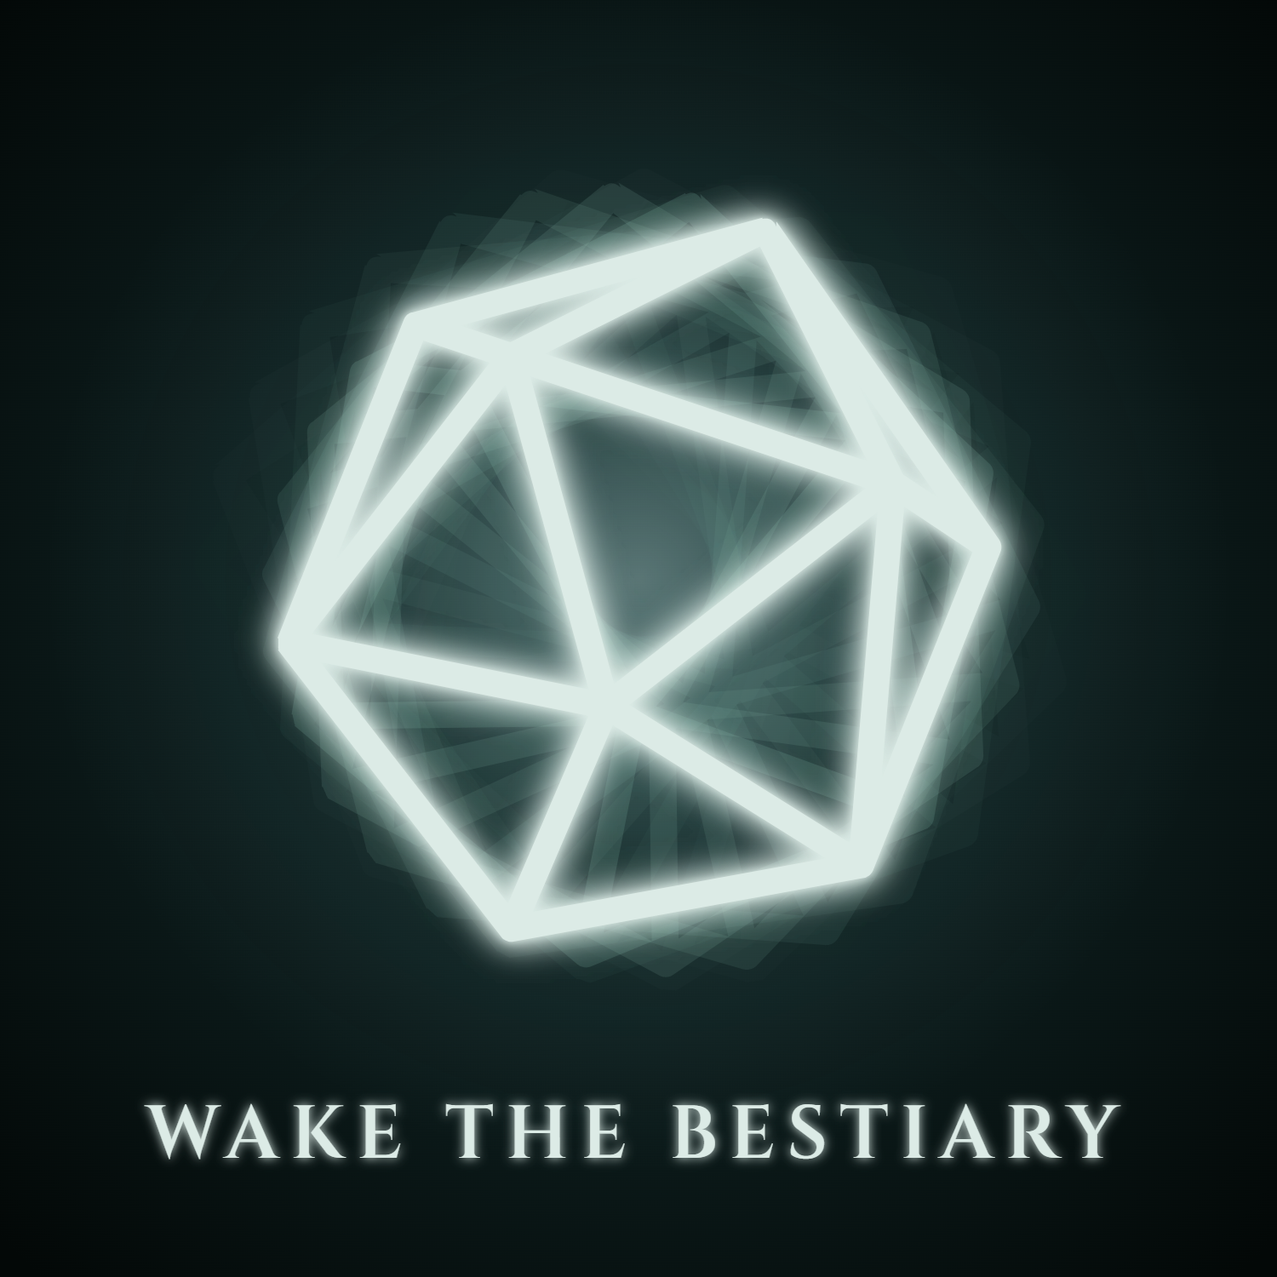
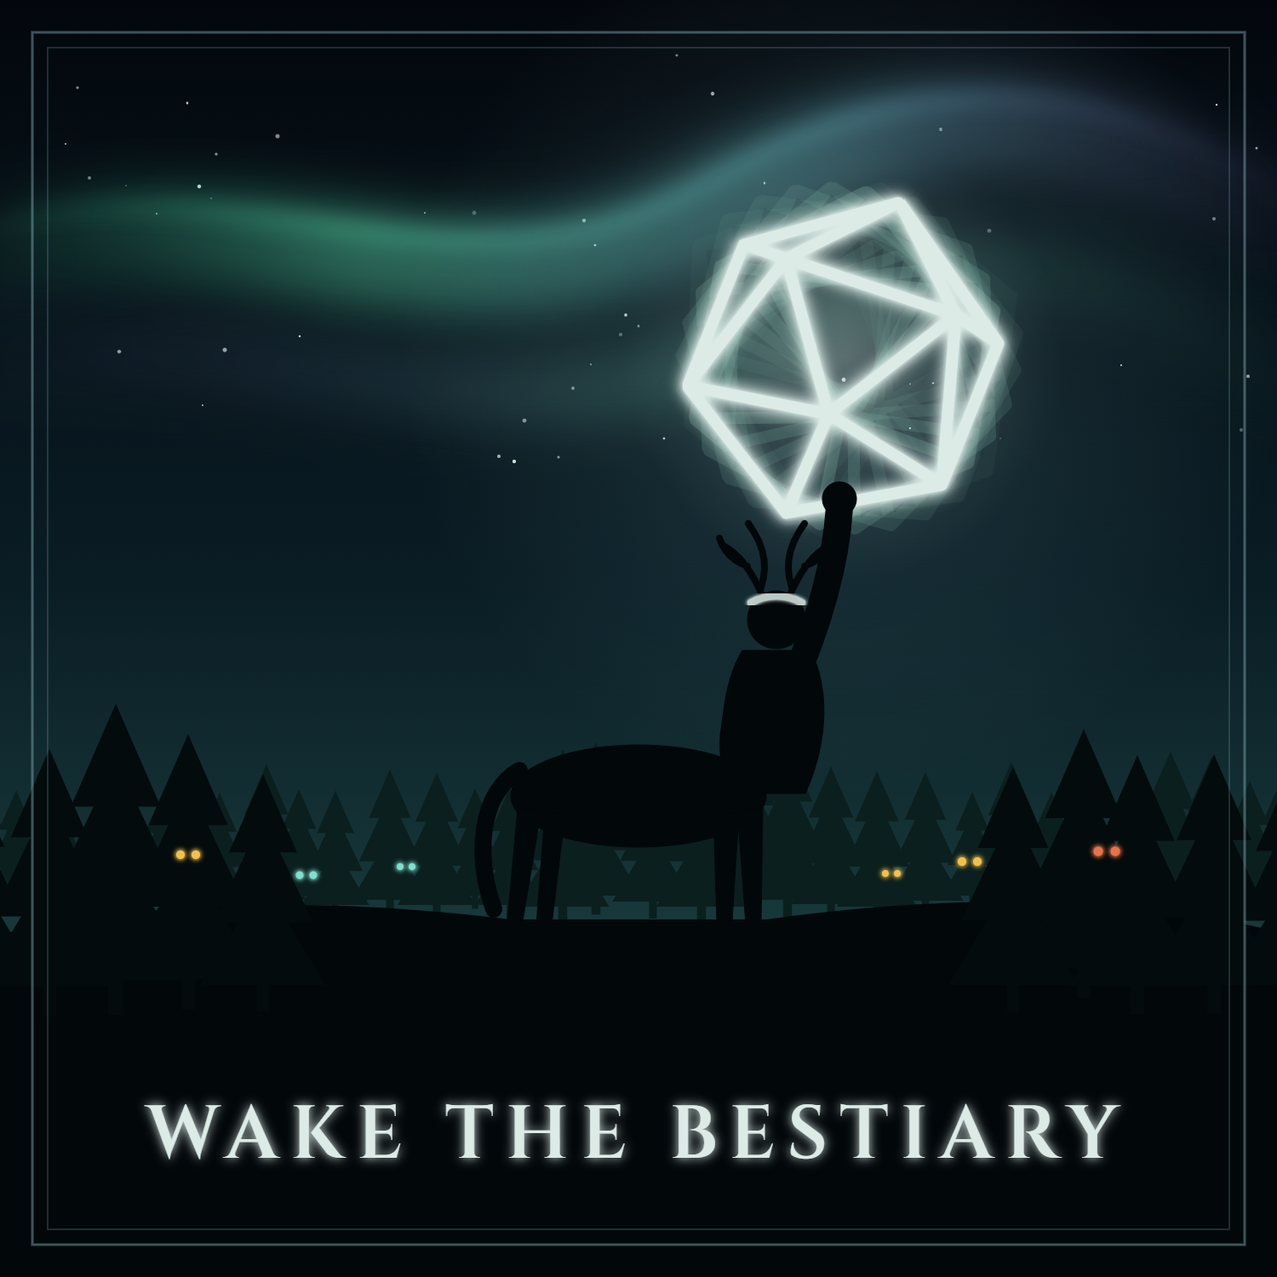
Theme song: a scene for the cover, 'any real roll', Sources checked

diff --git a/docs/theme-song/cover.html b/docs/theme-song/cover.html
@@ -6,26 +6,38 @@
   The d20 shape is the dndgen.com loading spinner (DnDGen.Web: dndgen-web/src/assets/loadingDice.svg),
   originally from https://gist.github.com/hperantunes/f4c2fd407c2ea74c6c9d
   Title font: Cinzel (Cinzel.ttf, SIL Open Font License - see Cinzel-OFL.txt).
-  Based on the main theme's cover in DnDGen/.github theme-song/cover.html, recoloured for the bestiary: a bone-pale d20 in the
-  cold light of a northern forest, the ghost copies behind it the spruce-green shadow of every beast it has woken.
+  Based on the main theme's cover in DnDGen/.github theme-song/cover.html, redrawn as a scene for the bestiary: the
+  Centaur King, antlered and crowned, lifts the d20 like a moon over a pine forest and an aurora, and eyes shine in the trees.
 -->
 <html>
 <head>
 <meta charset="utf-8">
 <style>@font-face{font-family:Cinzel;src:url("Cinzel.ttf") format("truetype");font-weight:400 900}</style>
-<style>html,body{margin:0;background:#040807}svg{display:block}</style>
+<style>html,body{margin:0;background:#03080a}svg{display:block}</style>
 </head>
 <body>
 <svg xmlns="http://www.w3.org/2000/svg" width="1500" height="1500" viewBox="0 0 1500 1500">
 <defs>
-  <radialGradient id="bg" cx="50%" cy="48%" r="70%">
-    <stop offset="0" stop-color="#1f3a38"/>
-    <stop offset="0.45" stop-color="#0e1f1f"/>
-    <stop offset="1" stop-color="#030807"/>
-  </radialGradient>
+  <linearGradient id="sky" x1="0" y1="0" x2="0" y2="1">
+    <stop offset="0" stop-color="#03070d"/>
+    <stop offset="0.45" stop-color="#0a1c24"/>
+    <stop offset="0.72" stop-color="#17383a"/>
+    <stop offset="1" stop-color="#0d2223"/>
+  </linearGradient>
+  <linearGradient id="aur1" x1="0" y1="0" x2="1" y2="0">
+    <stop offset="0" stop-color="#3fd9a0" stop-opacity="0"/>
+    <stop offset="0.3" stop-color="#5fe8b4" stop-opacity="0.75"/>
+    <stop offset="0.65" stop-color="#7fd6e8" stop-opacity="0.6"/>
+    <stop offset="1" stop-color="#8f7bd8" stop-opacity="0"/>
+  </linearGradient>
+  <linearGradient id="aur2" x1="0" y1="0" x2="1" y2="0">
+    <stop offset="0" stop-color="#8f7bd8" stop-opacity="0"/>
+    <stop offset="0.5" stop-color="#6fc9b0" stop-opacity="0.45"/>
+    <stop offset="1" stop-color="#3fd9a0" stop-opacity="0"/>
+  </linearGradient>
   <radialGradient id="halo" cx="50%" cy="50%" r="50%">
-    <stop offset="0" stop-color="#c9e8ea" stop-opacity="0.35"/>
-    <stop offset="0.5" stop-color="#7fb5b8" stop-opacity="0.08"/>
+    <stop offset="0" stop-color="#dff4ee" stop-opacity="0.38"/>
+    <stop offset="0.5" stop-color="#7fb5b8" stop-opacity="0.1"/>
     <stop offset="1" stop-color="#7fb5b8" stop-opacity="0"/>
   </radialGradient>
   <filter id="glow" x="-30%" y="-30%" width="160%" height="160%">
@@ -34,22 +46,150 @@
     <feMerge><feMergeNode in="b1"/><feMergeNode in="b1"/><feMergeNode in="b2"/><feMergeNode in="SourceGraphic"/></feMerge>
   </filter>
   <filter id="tglow" x="-10%" y="-50%" width="120%" height="200%"><feGaussianBlur stdDeviation="6" result="b"/><feMerge><feMergeNode in="b"/><feMergeNode in="SourceGraphic"/></feMerge></filter>
+  <filter id="blur30" x="-20%" y="-60%" width="140%" height="220%"><feGaussianBlur stdDeviation="30"/></filter>
+  <filter id="blur14" x="-20%" y="-60%" width="140%" height="220%"><feGaussianBlur stdDeviation="14"/></filter>
+  <filter id="eye" x="-300%" y="-300%" width="700%" height="700%"><feGaussianBlur stdDeviation="3" result="b"/><feMerge><feMergeNode in="b"/><feMergeNode in="b"/><feMergeNode in="SourceGraphic"/></feMerge></filter>
+  <polygon id="pine" points="0,-210 34,-132 17,-132 50,-62 25,-62 62,0 6,0 6,26 -6,26 -6,0 -62,0 -25,-62 -50,-62 -17,-132 -34,-132"/>
   <path id="d20" d="M80.644,87.982l16.592-41.483c0.054-0.128,0.088-0.26,0.108-0.394c0.006-0.039,0.007-0.077,0.011-0.116  c0.007-0.087,0.008-0.174,0.002-0.26c-0.003-0.046-0.007-0.091-0.014-0.137c-0.014-0.089-0.036-0.176-0.063-0.262  c-0.012-0.034-0.019-0.069-0.031-0.103c-0.047-0.118-0.106-0.229-0.178-0.335c-0.004-0.006-0.006-0.012-0.01-0.018L67.999,3.358  c-0.01-0.013-0.003-0.026-0.013-0.04L68,3.315V4c0,0-0.033,0-0.037,0c-0.403-1-1.094-1.124-1.752-0.976  c0,0.004-0.004-0.012-0.007-0.012C66.201,3.016,66.194,3,66.194,3H66.19h-0.003h-0.003h-0.004h-0.003c0,0-0.004,0-0.007,0  s-0.003-0.151-0.007-0.151L20.495,15.227c-0.025,0.007-0.046-0.019-0.071-0.011c-0.087,0.028-0.172,0.041-0.253,0.083  c-0.054,0.027-0.102,0.053-0.152,0.085c-0.051,0.033-0.101,0.061-0.147,0.099c-0.044,0.036-0.084,0.073-0.124,0.113  c-0.048,0.048-0.093,0.098-0.136,0.152c-0.03,0.039-0.059,0.076-0.085,0.117c-0.046,0.07-0.084,0.145-0.12,0.223  c-0.011,0.023-0.027,0.042-0.036,0.066L2.911,57.664C2.891,57.715,3,57.768,3,57.82v0.002c0,0.186,0,0.375,0,0.562  c0,0.004,0,0.004,0,0.008c0,0,0,0,0,0.002c0,0,0,0,0,0.004v0.004v0.002c0,0.074-0.002,0.15,0.012,0.223  C3.015,58.631,3,58.631,3,58.633c0,0.004,0,0.004,0,0.008c0,0,0,0,0,0.002c0,0,0,0,0,0.004v0.004c0,0,0,0,0,0.002v0.004  c0,0.191-0.046,0.377,0.06,0.545c0-0.002-0.03,0.004-0.03,0.004c0,0.004-0.03,0.004-0.03,0.004c0,0.002,0,0.002,0,0.002  l-0.045,0.004c0.03,0.047,0.036,0.09,0.068,0.133l29.049,37.359c0.002,0.004,0,0.006,0.002,0.01c0.002,0.002,0,0.004,0.002,0.008  c0.006,0.008,0.014,0.014,0.021,0.021c0.024,0.029,0.052,0.051,0.078,0.078c0.027,0.029,0.053,0.057,0.082,0.082  c0.03,0.027,0.055,0.062,0.086,0.088c0.026,0.02,0.057,0.033,0.084,0.053c0.04,0.027,0.081,0.053,0.123,0.076  c0.005,0.004,0.01,0.008,0.016,0.01c0.087,0.051,0.176,0.09,0.269,0.123c0.042,0.014,0.082,0.031,0.125,0.043  c0.021,0.006,0.041,0.018,0.062,0.021c0.123,0.027,0.249,0.043,0.375,0.043c0.099,0,0.202-0.012,0.304-0.027l45.669-8.303  c0.057-0.01,0.108-0.021,0.163-0.037C79.547,88.992,79.562,89,79.575,89c0.004,0,0.004,0,0.004,0c0.021,0,0.039-0.027,0.06-0.035  c0.041-0.014,0.08-0.034,0.12-0.052c0.021-0.01,0.044-0.019,0.064-0.03c0.017-0.01,0.026-0.015,0.033-0.017  c0.014-0.008,0.023-0.021,0.037-0.028c0.14-0.078,0.269-0.174,0.38-0.285c0.014-0.016,0.024-0.034,0.038-0.048  c0.109-0.119,0.201-0.252,0.271-0.398c0.006-0.01,0.016-0.018,0.021-0.029c0.004-0.008,0.008-0.017,0.011-0.026  c0.002-0.004,0.003-0.006,0.005-0.01C80.627,88.021,80.635,88.002,80.644,87.982z M77.611,84.461L48.805,66.453l32.407-25.202  L77.611,84.461z M46.817,63.709L35.863,23.542l43.818,14.608L46.817,63.709z M84.668,40.542l8.926,5.952l-11.902,29.75  L84.668,40.542z M89.128,39.446L84.53,36.38l-6.129-12.257L89.128,39.446z M79.876,34.645L37.807,20.622L65.854,6.599L79.876,34.645  z M33.268,19.107l-6.485-2.162l23.781-6.487L33.268,19.107z M21.92,18.895l8.67,2.891L10.357,47.798L21.92,18.895z M32.652,24.649  l10.845,39.757L7.351,57.178L32.652,24.649z M43.472,67.857L32.969,92.363L8.462,60.855L43.472,67.857z M46.631,69.09l27.826,17.393  l-38.263,6.959L46.631,69.09z"/>
 </defs>
-<rect width="1500" height="1500" fill="url(#bg)"/>
-<circle cx="750" cy="680" r="700" fill="url(#halo)"/>
-<g transform="translate(750 680) scale(0.9)">
-  <use href="#d20" transform="rotate(-108) scale(11.620) translate(-50 -50)" fill="#7fb3a6" opacity="0.003"/>
-  <use href="#d20" transform="rotate(-96) scale(11.440) translate(-50 -50)" fill="#7fb3a6" opacity="0.012"/>
-  <use href="#d20" transform="rotate(-84) scale(11.260) translate(-50 -50)" fill="#7fb3a6" opacity="0.025"/>
-  <use href="#d20" transform="rotate(-72) scale(11.080) translate(-50 -50)" fill="#7fb3a6" opacity="0.042"/>
-  <use href="#d20" transform="rotate(-60) scale(10.900) translate(-50 -50)" fill="#7fb3a6" opacity="0.063"/>
-  <use href="#d20" transform="rotate(-48) scale(10.720) translate(-50 -50)" fill="#7fb3a6" opacity="0.088"/>
-  <use href="#d20" transform="rotate(-36) scale(10.540) translate(-50 -50)" fill="#7fb3a6" opacity="0.116"/>
-  <use href="#d20" transform="rotate(-24) scale(10.360) translate(-50 -50)" fill="#7fb3a6" opacity="0.147"/>
-  <use href="#d20" transform="rotate(-12) scale(10.180) translate(-50 -50)" fill="#7fb3a6" opacity="0.182"/>
+<rect width="1500" height="1500" fill="url(#sky)"/>
+<circle cx="184" cy="251" r="1.1" fill="#e8f4f0" opacity="0.57"/>
+<circle cx="105" cy="209" r="1.8" fill="#e8f4f0" opacity="0.53"/>
+<circle cx="898" cy="215" r="1.2" fill="#e8f4f0" opacity="0.76"/>
+<circle cx="673" cy="456" r="1.9" fill="#e8f4f0" opacity="0.54"/>
+<circle cx="148" cy="218" r="0.7" fill="#e8f4f0" opacity="0.49"/>
+<circle cx="1096" cy="450" r="0.9" fill="#e8f4f0" opacity="0.40"/>
+<circle cx="837" cy="110" r="2.1" fill="#e8f4f0" opacity="0.69"/>
+<circle cx="616" cy="494" r="2.4" fill="#e8f4f0" opacity="0.54"/>
+<circle cx="238" cy="476" r="1.0" fill="#e8f4f0" opacity="0.73"/>
+<circle cx="1175" cy="515" r="0.8" fill="#e8f4f0" opacity="0.32"/>
+<circle cx="699" cy="288" r="1.2" fill="#e8f4f0" opacity="0.80"/>
+<circle cx="1426" cy="257" r="2.0" fill="#e8f4f0" opacity="0.46"/>
+<circle cx="1105" cy="152" r="1.9" fill="#e8f4f0" opacity="0.55"/>
+<circle cx="264" cy="411" r="2.5" fill="#e8f4f0" opacity="0.64"/>
+<circle cx="586" cy="536" r="2.0" fill="#e8f4f0" opacity="0.69"/>
+<circle cx="656" cy="537" r="1.5" fill="#e8f4f0" opacity="0.56"/>
+<circle cx="254" cy="181" r="1.6" fill="#e8f4f0" opacity="0.56"/>
+<circle cx="557" cy="250" r="2.3" fill="#e8f4f0" opacity="0.31"/>
+<circle cx="750" cy="383" r="1.3" fill="#e8f4f0" opacity="0.55"/>
+<circle cx="499" cy="250" r="0.8" fill="#e8f4f0" opacity="0.82"/>
+<circle cx="604" cy="542" r="2.1" fill="#e8f4f0" opacity="0.89"/>
+<circle cx="1162" cy="271" r="2.3" fill="#e8f4f0" opacity="0.34"/>
+<circle cx="1476" cy="174" r="1.2" fill="#e8f4f0" opacity="0.76"/>
+<circle cx="248" cy="233" r="1.0" fill="#e8f4f0" opacity="0.35"/>
+<circle cx="686" cy="259" r="2.1" fill="#e8f4f0" opacity="0.65"/>
+<circle cx="991" cy="446" r="2.3" fill="#e8f4f0" opacity="0.84"/>
+<circle cx="91" cy="103" r="1.6" fill="#e8f4f0" opacity="0.53"/>
+<circle cx="1069" cy="503" r="0.8" fill="#e8f4f0" opacity="0.76"/>
+<circle cx="220" cy="121" r="1.2" fill="#e8f4f0" opacity="0.86"/>
+<circle cx="234" cy="219" r="2.2" fill="#e8f4f0" opacity="0.84"/>
+<circle cx="326" cy="160" r="2.4" fill="#e8f4f0" opacity="0.54"/>
+<circle cx="1074" cy="355" r="1.5" fill="#e8f4f0" opacity="0.71"/>
+<circle cx="694" cy="428" r="0.9" fill="#e8f4f0" opacity="0.67"/>
+<circle cx="729" cy="393" r="2.0" fill="#e8f4f0" opacity="0.35"/>
+<circle cx="735" cy="370" r="1.7" fill="#e8f4f0" opacity="0.87"/>
+<circle cx="352" cy="395" r="1.2" fill="#e8f4f0" opacity="0.87"/>
+<circle cx="1458" cy="505" r="2.0" fill="#e8f4f0" opacity="0.33"/>
+<circle cx="1429" cy="123" r="0.9" fill="#e8f4f0" opacity="0.88"/>
+<circle cx="140" cy="413" r="2.1" fill="#e8f4f0" opacity="0.63"/>
+<circle cx="1317" cy="429" r="0.9" fill="#e8f4f0" opacity="0.40"/>
+<circle cx="1466" cy="442" r="2.0" fill="#e8f4f0" opacity="0.61"/>
+<circle cx="780" cy="515" r="1.3" fill="#e8f4f0" opacity="0.81"/>
+<circle cx="1043" cy="433" r="1.5" fill="#e8f4f0" opacity="0.43"/>
+<circle cx="77" cy="169" r="0.9" fill="#e8f4f0" opacity="0.85"/>
+<circle cx="1069" cy="451" r="0.7" fill="#e8f4f0" opacity="0.58"/>
+<circle cx="795" cy="65" r="1.1" fill="#e8f4f0" opacity="0.58"/>
+<g fill="none" stroke-linecap="round">
+  <path d="M-80 330 C 220 170, 520 420, 820 250 S 1320 130, 1580 300" stroke="url(#aur1)" stroke-width="110" opacity="0.55" filter="url(#blur30)"/>
+  <path d="M-80 450 C 260 330, 560 560, 900 400 S 1300 330, 1580 470" stroke="url(#aur2)" stroke-width="80" opacity="0.5" filter="url(#blur30)"/>
+  <path d="M-80 300 C 220 140, 520 390, 820 220 S 1320 100, 1580 270" stroke="url(#aur1)" stroke-width="14" opacity="0.8" filter="url(#blur14)"/>
+</g>
+<circle cx="990" cy="420" r="520" fill="url(#halo)"/>
+<g transform="translate(990 420) scale(0.4)">
+  <use href="#d20" transform="rotate(-72) scale(11.080) translate(-50 -50)" fill="#7fb3a6" opacity="0.05"/>
+  <use href="#d20" transform="rotate(-60) scale(10.900) translate(-50 -50)" fill="#7fb3a6" opacity="0.08"/>
+  <use href="#d20" transform="rotate(-48) scale(10.720) translate(-50 -50)" fill="#7fb3a6" opacity="0.11"/>
+  <use href="#d20" transform="rotate(-36) scale(10.540) translate(-50 -50)" fill="#7fb3a6" opacity="0.15"/>
+  <use href="#d20" transform="rotate(-24) scale(10.360) translate(-50 -50)" fill="#7fb3a6" opacity="0.2"/>
+  <use href="#d20" transform="rotate(-12) scale(10.180) translate(-50 -50)" fill="#7fb3a6" opacity="0.26"/>
   <use href="#d20" transform="scale(10) translate(-50 -50)" fill="#dcebe6" filter="url(#glow)"/>
 </g>
+<g>
+<use href="#pine" transform="translate(-20 1063) scale(0.68)" fill="#0b1f1f"/>
+<use href="#pine" transform="translate(19 1054) scale(0.60)" fill="#0b1f1f"/>
+<use href="#pine" transform="translate(70 1060) scale(0.66)" fill="#0b1f1f"/>
+<use href="#pine" transform="translate(132 1059) scale(0.61)" fill="#0b1f1f"/>
+<use href="#pine" transform="translate(191 1059) scale(0.61)" fill="#0b1f1f"/>
+<use href="#pine" transform="translate(258 1055) scale(0.59)" fill="#0b1f1f"/>
+<use href="#pine" transform="translate(313 1057) scale(0.76)" fill="#0b1f1f"/>
+<use href="#pine" transform="translate(351 1053) scale(0.60)" fill="#0b1f1f"/>
+<use href="#pine" transform="translate(394 1063) scale(0.64)" fill="#0b1f1f"/>
+<use href="#pine" transform="translate(458 1057) scale(0.73)" fill="#0b1f1f"/>
+<use href="#pine" transform="translate(513 1063) scale(0.74)" fill="#0b1f1f"/>
+<use href="#pine" transform="translate(558 1052) scale(0.60)" fill="#0b1f1f"/>
+<use href="#pine" transform="translate(599 1063) scale(0.66)" fill="#0b1f1f"/>
+<use href="#pine" transform="translate(661 1065) scale(0.88)" fill="#0b1f1f"/>
+<use href="#pine" transform="translate(700 1052) scale(0.86)" fill="#0b1f1f"/>
+<use href="#pine" transform="translate(767 1059) scale(0.77)" fill="#0b1f1f"/>
+<use href="#pine" transform="translate(824 1065) scale(0.86)" fill="#0b1f1f"/>
+<use href="#pine" transform="translate(882 1057) scale(0.84)" fill="#0b1f1f"/>
+<use href="#pine" transform="translate(925 1055) scale(0.86)" fill="#0b1f1f"/>
+<use href="#pine" transform="translate(976 1062) scale(0.77)" fill="#0b1f1f"/>
+<use href="#pine" transform="translate(1030 1065) scale(0.76)" fill="#0b1f1f"/>
+<use href="#pine" transform="translate(1087 1058) scale(0.72)" fill="#0b1f1f"/>
+<use href="#pine" transform="translate(1142 1052) scale(0.58)" fill="#0b1f1f"/>
+<use href="#pine" transform="translate(1188 1063) scale(0.80)" fill="#0b1f1f"/>
+<use href="#pine" transform="translate(1235 1063) scale(0.63)" fill="#0b1f1f"/>
+<use href="#pine" transform="translate(1282 1062) scale(0.77)" fill="#0b1f1f"/>
+<use href="#pine" transform="translate(1333 1061) scale(0.55)" fill="#0b1f1f"/>
+<use href="#pine" transform="translate(1375 1065) scale(0.87)" fill="#0b1f1f"/>
+<use href="#pine" transform="translate(1423 1061) scale(0.82)" fill="#0b1f1f"/>
+<use href="#pine" transform="translate(1468 1056) scale(0.66)" fill="#0b1f1f"/>
+<use href="#pine" transform="translate(1507 1064) scale(0.73)" fill="#0b1f1f"/>
+</g>
+<g fill="#02070a">
+  <path d="M-10 1100 C 200 1050, 420 1058, 600 1080 L 900 1080 C 1100 1052, 1300 1048, 1510 1096 L1510 1510 L-10 1510 Z"/>
+</g>
+<g fill="#02070a" stroke="#02070a" stroke-linecap="round" stroke-linejoin="round">
+  <ellipse cx="750" cy="935" rx="150" ry="60"/>
+  <path d="M866 950 L876 1086 L894 1086 L896 950 Z"/>
+  <path d="M838 955 L842 1082 L860 1082 L868 955 Z"/>
+  <path d="M640 955 L630 1086 L648 1086 L664 955 Z"/>
+  <path d="M608 950 L596 1082 L614 1082 L636 950 Z"/>
+  <path d="M610 905 C 566 930, 556 1000, 580 1068" fill="none" stroke-width="20"/>
+  <path d="M852 932 C 842 860 850 800 872 764 L952 764 C 974 806 974 870 946 932 Z"/>
+  <circle cx="912" cy="728" r="34"/>
+  <path d="M940 782 C 964 722, 982 660, 986 596" fill="none" stroke-width="32"/>
+  <circle cx="986" cy="586" r="20"/>
+  <path d="M880 785 C 862 830, 852 870, 862 906" fill="none" stroke-width="26"/>
+  <g fill="none" stroke-width="8">
+    <path d="M925 705 C 940 670 955 650 975 640 M945 665 C 960 660 972 650 978 632 M930 690 C 920 660 930 635 945 615"/>
+    <path d="M898 705 C 883 670 868 650 848 640 M878 665 C 863 660 851 650 845 632 M894 690 C 904 660 894 635 879 615"/>
+  </g>
+</g>
+<path d="M882 708 Q912 692 942 708" fill="none" stroke="#dcebe6" stroke-width="8" stroke-linecap="round" opacity="0.85" filter="url(#glow)"/>
+<g>
+<use href="#pine" transform="translate(-30 1132) scale(1.04)" fill="#030b0c"/>
+<use href="#pine" transform="translate(58 1159) scale(1.33)" fill="#030b0c"/>
+<use href="#pine" transform="translate(136 1152) scale(1.55)" fill="#030b0c"/>
+<use href="#pine" transform="translate(221 1150) scale(1.37)" fill="#030b0c"/>
+<use href="#pine" transform="translate(309 1157) scale(1.18)" fill="#030b0c"/>
+<use href="#pine" transform="translate(1190 1157) scale(1.22)" fill="#030b0c"/>
+<use href="#pine" transform="translate(1273 1138) scale(1.34)" fill="#030b0c"/>
+<use href="#pine" transform="translate(1336 1158) scale(1.29)" fill="#030b0c"/>
+<use href="#pine" transform="translate(1426 1157) scale(1.29)" fill="#030b0c"/>
+<use href="#pine" transform="translate(1515 1154) scale(1.17)" fill="#030b0c"/>
+</g>
+<g filter="url(#eye)">
+  <circle cx="212" cy="1004" r="5" fill="#f2c14e"/><circle cx="230" cy="1004" r="5" fill="#f2c14e"/>
+  <circle cx="352" cy="1028" r="4.5" fill="#7fe0d0"/><circle cx="368" cy="1028" r="4.5" fill="#7fe0d0"/>
+  <circle cx="1130" cy="1012" r="5" fill="#f2c14e"/><circle cx="1148" cy="1012" r="5" fill="#f2c14e"/>
+  <circle cx="1290" cy="1000" r="5.5" fill="#e8734a"/><circle cx="1310" cy="1000" r="5.5" fill="#e8734a"/>
+  <circle cx="470" cy="1018" r="4" fill="#7fe0d0"/><circle cx="484" cy="1018" r="4" fill="#7fe0d0"/>
+  <circle cx="1040" cy="1026" r="4" fill="#f2c14e"/><circle cx="1054" cy="1026" r="4" fill="#f2c14e"/>
+</g>
+<rect x="38" y="38" width="1424" height="1424" fill="none" stroke="#7fb5b8" stroke-width="3" opacity="0.45"/>
+<rect x="56" y="56" width="1388" height="1388" fill="none" stroke="#7fb5b8" stroke-width="1.5" opacity="0.3"/>
 <text x="750" y="1360" text-anchor="middle" font-family="Cinzel" font-weight="600" font-size="88" letter-spacing="14" fill="#dcebe6" filter="url(#tglow)">WAKE THE BESTIARY</text>
 </svg>
 </body>

diff --git a/docs/theme-song/README.md b/docs/theme-song/README.md
@@ -84,7 +84,7 @@ For dungeons and dragons; the regal ruler delivers
 
 [Verse 3 - the king alone, slow and spare]
 Dice decide; the default scores are set
-Pick from the nine; or play any valid roll
+Pick from the nine; or play any real roll
 Ghosts need Charisma; grace of six at the least
 Short of the mark; the score is raised to meet it
 If the roll can never reach; the minimum is missed
@@ -157,7 +157,7 @@ The lines are unrhymed alliterative verse: each line has two or three stressed w
 | For dungeons and dragons; the regal ruler delivers | Introduction: "Generates a random, fleshed-out creature for Dungeons and Dragons 3.5" |
 | Playable peoples; they take class levels<br>Monsters keep their might; their hit dice stay | Use: "a playable race that will take class levels", "has its racial Hit Die replaced by class levels", and "or as a monster" |
 | Templates chained; taken in turn<br>Each must fit; the form the first has fashioned | Use: "Chaining templates", "applied in the order given", "Each template must be compatible with the creature", and "as it is after the templates before it have been applied" |
-| Dice decide; the default scores are set<br>Pick from the nine; or play any valid roll | Use, Ability scores: "abilities are rolled with the default roll", "The available rolls are in", and "any other valid roll" |
+| Dice decide; the default scores are set<br>Pick from the nine; or play any real roll | Use, Ability scores: "abilities are rolled with the default roll", "The available rolls are in", and "any other valid roll" |
 | Ghosts need Charisma; grace of six at the least<br>Short of the mark; the score is raised to meet it | Use, Ability scores: "Some templates require a minimum ability score", "a Ghost needs Charisma 6", and "any rolled score that would fall short is raised to meet the minimum" |
 | If the roll can never reach; the minimum is missed<br>Not compatible; the creature cannot come | Use, Ability scores: "If the randomizer can never reach the minimum" and "the creature is not compatible" |
 | Ask before you beckon; whether beasts can wake<br>The verifier vets; valid creatures confirmed | Use, Checking compatibility: "To check ahead of time" and "ICreatureVerifier" |
@@ -219,7 +219,7 @@ Nothing has been generated yet, so everything here is a guess to test:
   the generator throws, which is an implementation detail and not a warning.
 - **The roll line names no roll.** v0.4 sang "four dice fall; the fairest three keep", which read as
   if the default and four dice keeping three were the only rolls. A roll can be any valid roll, so the
-  line is now "Pick from the nine; or play any valid roll", and the README says so.
+  line is now "Pick from the nine; or play any real roll", and the README says so.
 - **The singer is a guess.** "A calm, deep, unhurried male voice, a regal king and storyteller"
   names the singer, as RollGen's lesson says, and avoids "raspy" and "gravelly", which came out
   growly there. A dark Nordic folk take may still pull toward a throat-sung or growled voice.
@@ -246,8 +246,10 @@ msedge --headless --hide-scrollbars --allow-file-access-from-files --window-size
 
 If Edge reads `cover.html` as a web address, pass it as a full `file:///` URL instead.
 
-- It is the main theme's [cover](https://github.com/DnDGen/.github/blob/main/theme-song/cover.html), recoloured for the bestiary.
-  The d20 is bone-pale in the cold light of a northern forest, and the ghost copies behind it are the
-  spruce-green shadows of every beast it has woken. The title is the song's, *Wake the Bestiary*.
+- It is a scene, drawn after the main theme's [cover](https://github.com/DnDGen/.github/blob/main/theme-song/cover.html), like the other songs' covers. The Centaur King, antlered and crowned,
+  stands on a ridge and lifts the d20 like a moon above a pine forest and an aurora, and eyes of amber,
+  teal, and red shine in the trees: the bestiary, waking. The ghost copies behind the d20 are its spin.
+  The title is the song's, *Wake the Bestiary*. The first cover was only the recoloured d20, which was
+  too plain next to the others.
 - The d20 is the dndgen.com loading spinner, from [DnDGen.Web](https://github.com/DnDGen/DnDGen.Web/blob/main/dndgen-web/src/assets/loadingDice.svg), originally from [a gist by hperantunes](https://gist.github.com/hperantunes/f4c2fd407c2ea74c6c9d).
 - The title is set in [Cinzel](https://github.com/NDISCOVER/Cinzel), included as [Cinzel.ttf](Cinzel.ttf) under the [SIL Open Font License](Cinzel-OFL.txt).

diff --git a/specs/002-creaturegen-theme-song/plan.md b/specs/002-creaturegen-theme-song/plan.md
@@ -41,7 +41,7 @@ also `docs/**/*.md` and `docs/**/*.png`, to its output.
   so lines are sung as words. The Centaur King's introduction and sign-off, and the refrain, are the lines not from the README.
 - **D4: Suno link.** Until the maintainer has one, the record says `TODO_SUNO_LINK` and the README
   has no badge, so the link tests fail. The patch's `SUNO_LINK` is replaced at the same time.
-- **D5: Album art.** To be redone: the first cover (a bare recoloured d20) was too plain next to the other songs' covers, each of which draws a scene from its song. Proposal waits until the song settles.
+- **D5: Album art.** A scene, like the other songs' covers: the Centaur King lifts the d20 like a moon over a pine forest and an aurora, with eyes shining in the trees. The first cover (a bare recoloured d20) was too plain.
 
 ## Project Structure
 

diff --git a/specs/002-creaturegen-theme-song/tasks.md b/specs/002-creaturegen-theme-song/tasks.md
@@ -33,7 +33,7 @@ description: "Task list for the DnDGen.CreatureGen theme song"
 
 - [X] T006 Draft the Title, Style, and Lyrics from the README, and their Sources
 - [ ] T007 (maintainer) Review the draft lyrics and style, and confirm the genre and English
-- [ ] T007a Redraw the album art as a scene (the first cover was too plain); wait until the song settles
+- [X] T007a Redraw the album art as a scene (the first cover was too plain)
 - [X] T008 Draw the album art, recoloured from the main theme's cover, and render it
 - [ ] T009 (maintainer) Approve the album art
 - [ ] T010 (maintainer) Generate drafts in Suno, each Sampling the main theme's "Rogante
